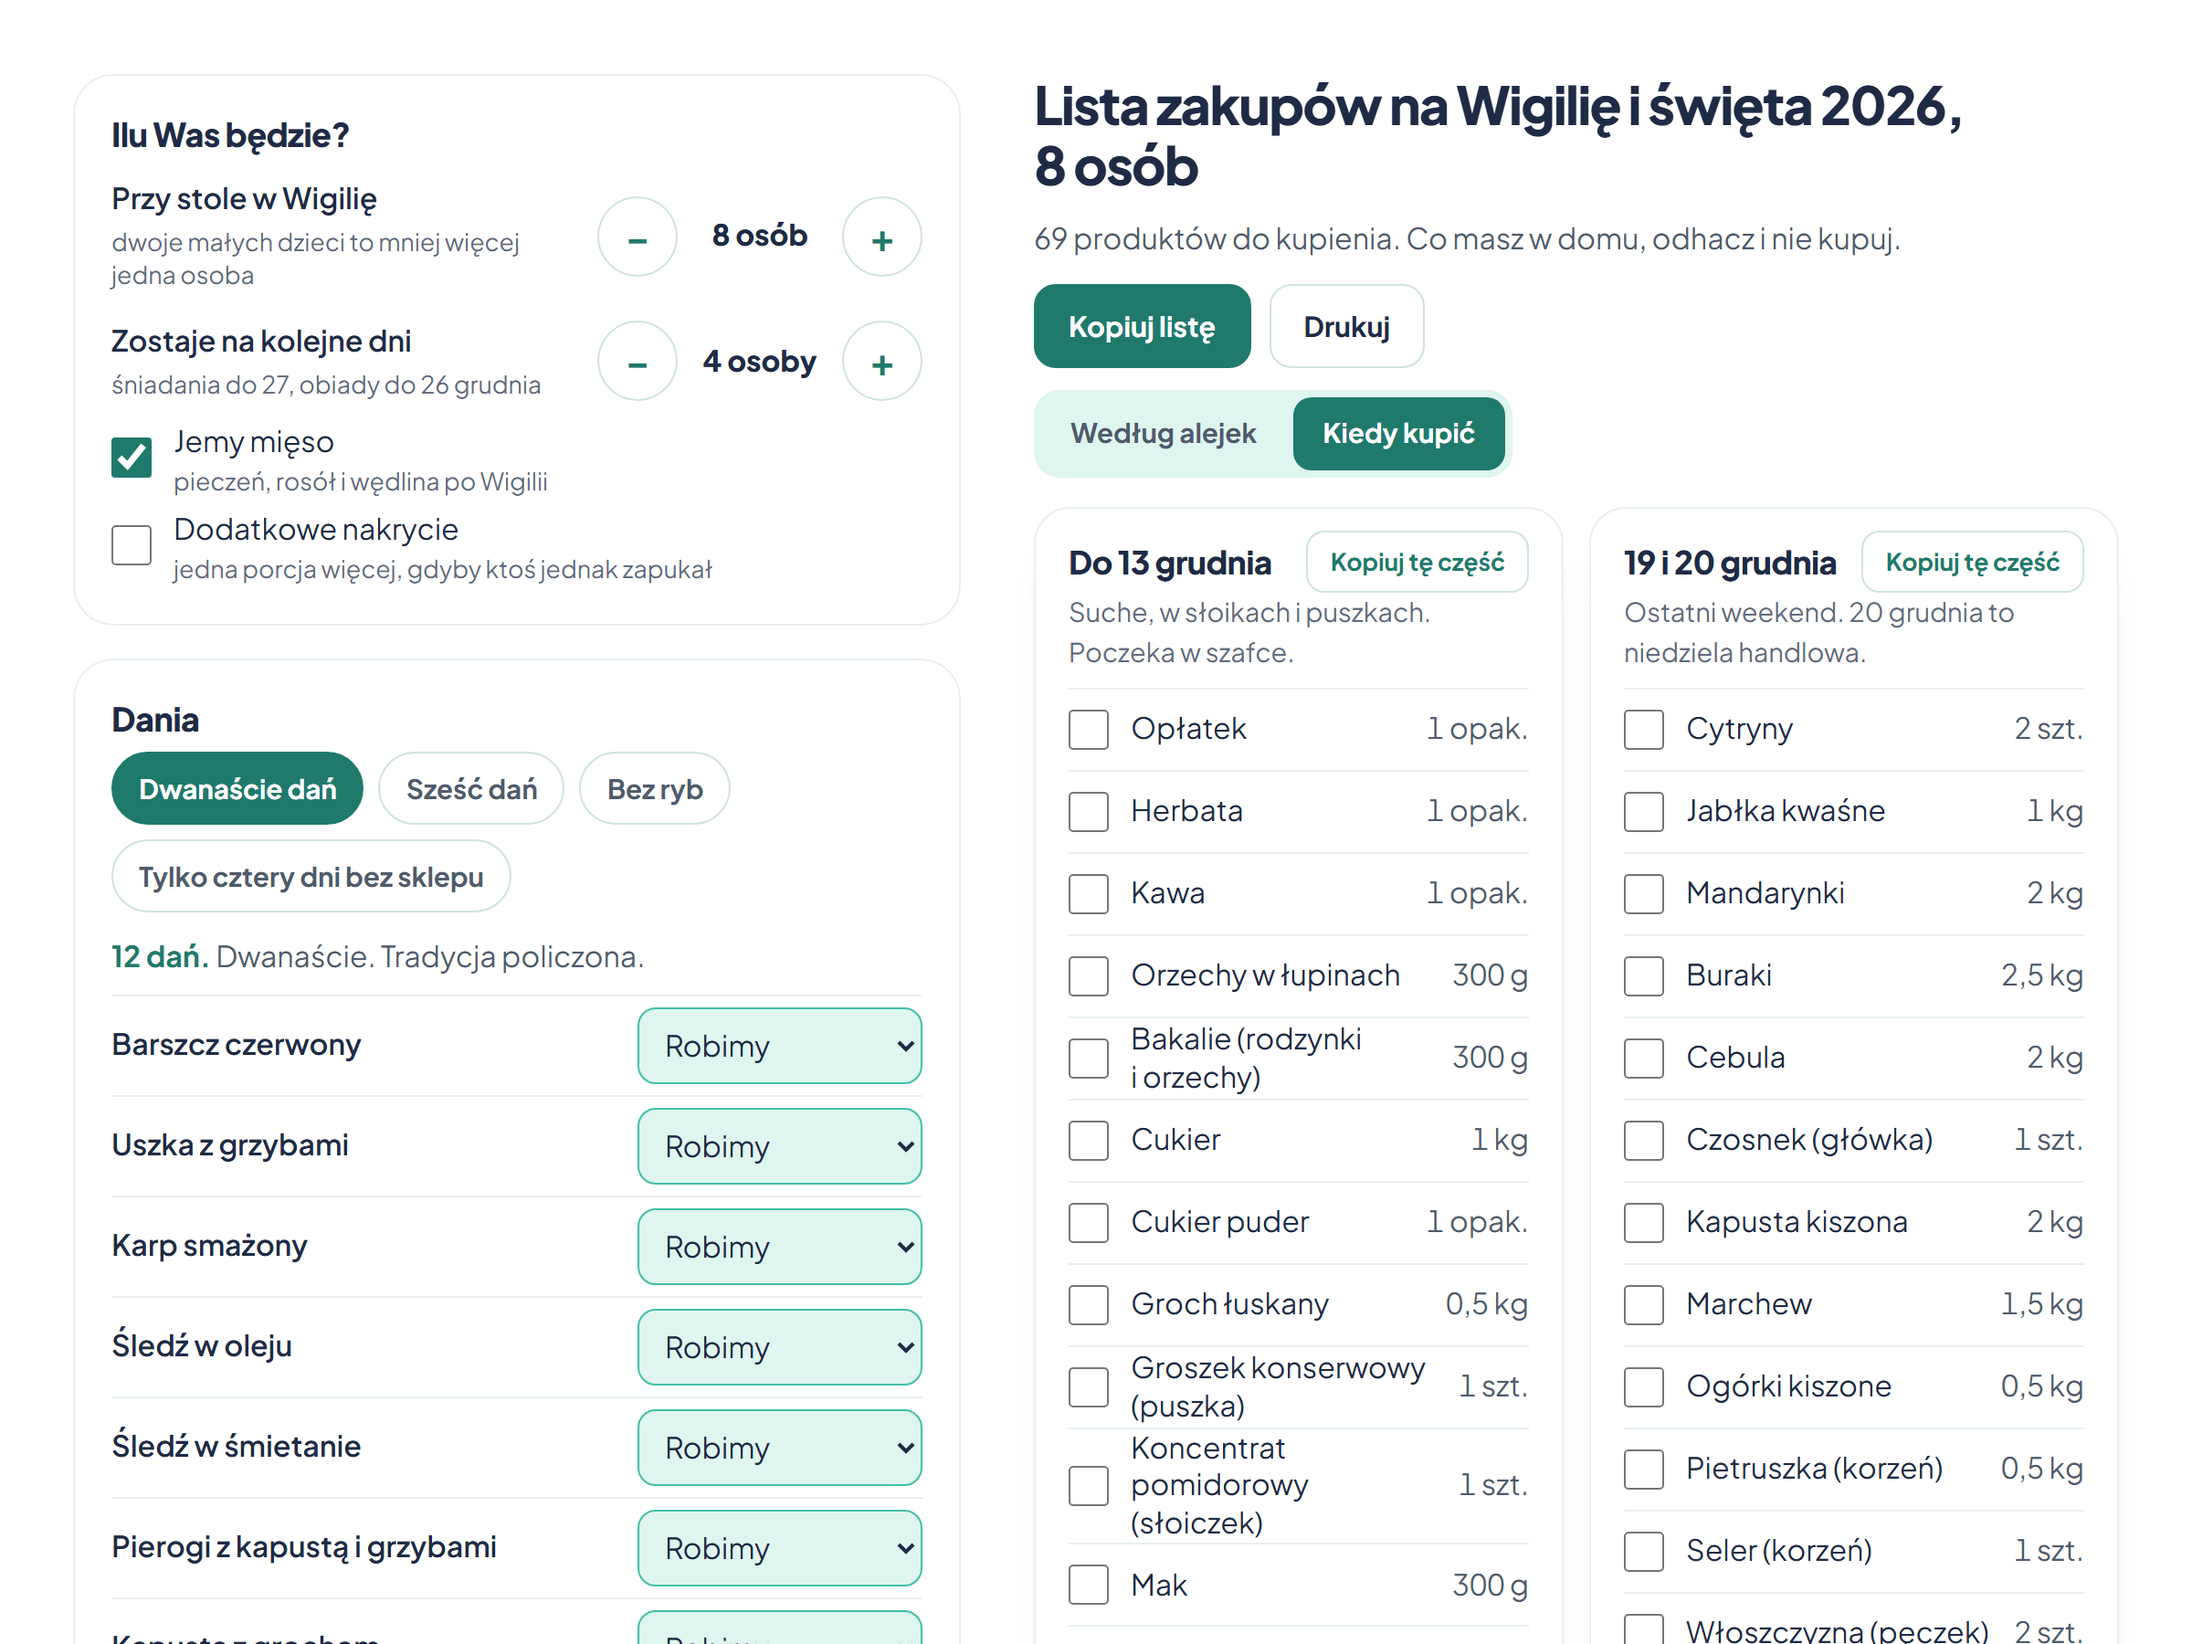
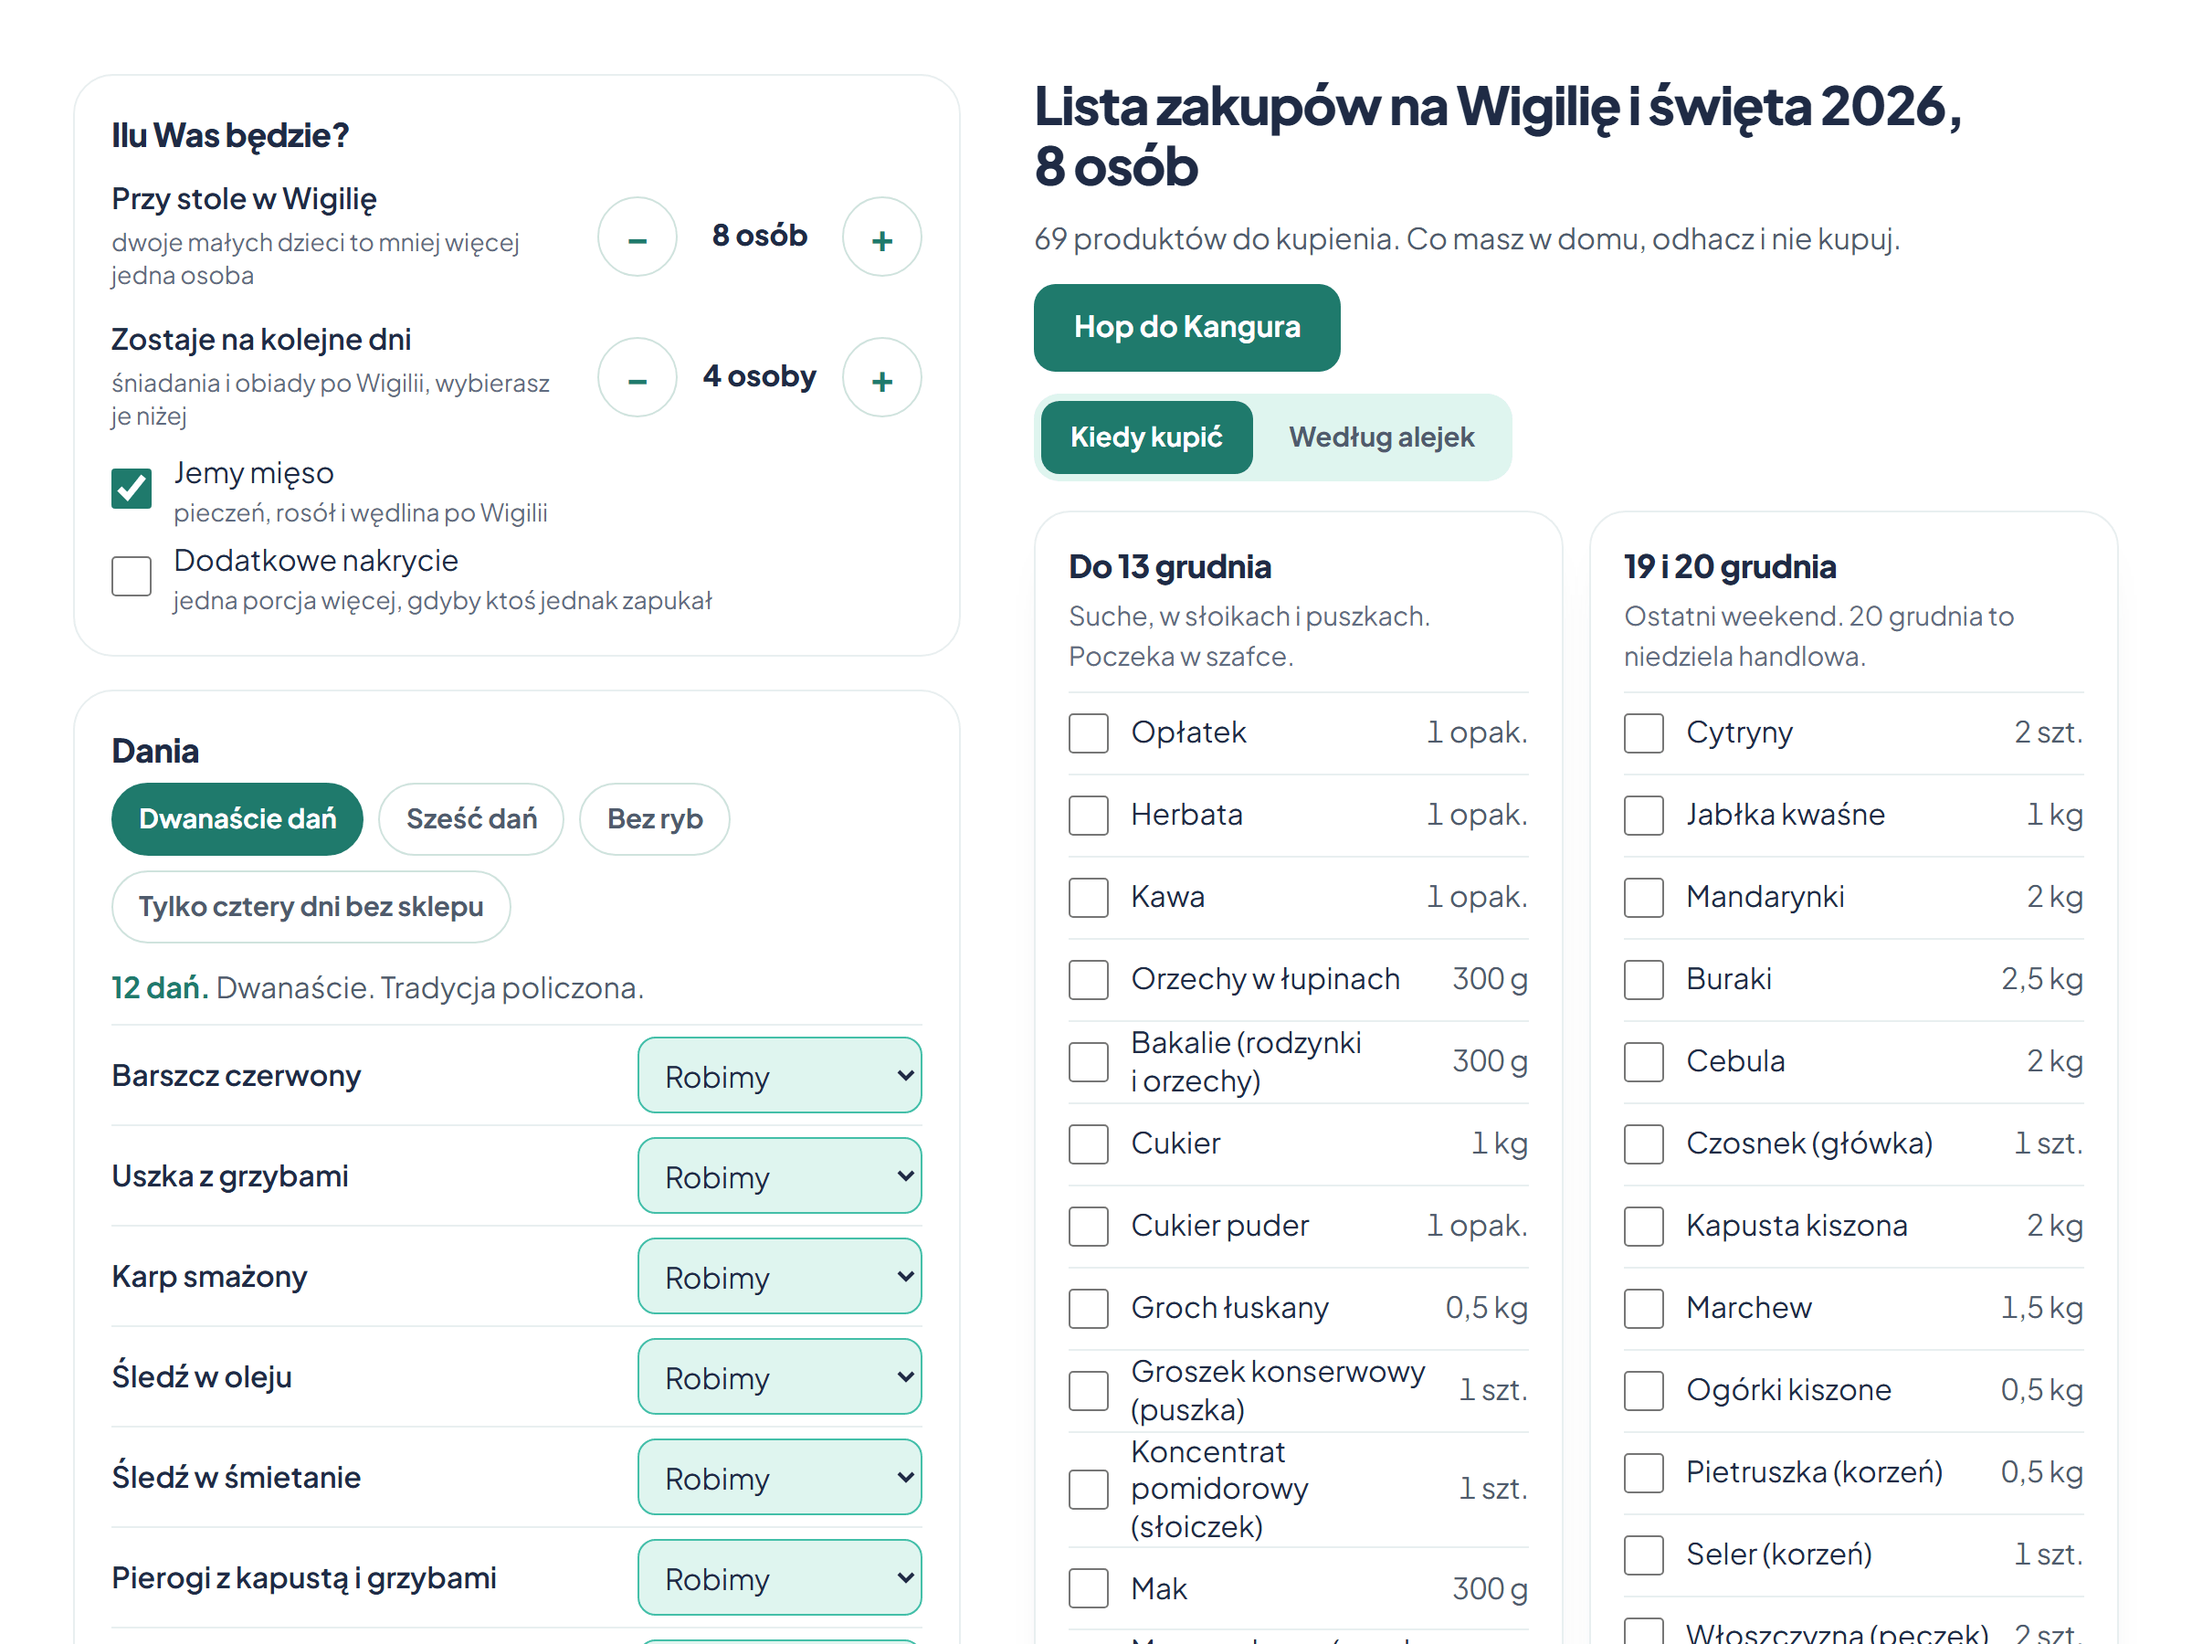
wip: the way from a computer to Kangur

diff --git a/backend/components/tools/ToKangur.tsx b/backend/components/tools/ToKangur.tsx
@@ -76,7 +76,7 @@ export function ToKangur({
   /** First line of the heading: "Oto Wasze dania." */
   line: string;
   chips: readonly string[];
-  summary: string;
+  summary: readonly string[];
   trips: readonly KangurPart[];
   /** Everything in one list, for those who do not want several. */
   whole?: KangurPart;
@@ -110,8 +110,8 @@ export function ToKangur({
       <div className={styles.head}>
         {slots.kangur}
         <div>
-          <div className={styles.arrived}>
-            <p role="status">{arrived ? HANDOFF.arrived : null}</p>
+          <div className={arrived ? styles.arrived : undefined}>
+            <p role="status">{arrived ? HANDOFF.arrived : null}</p>{" "}
             {arrived && onBack ? (
               <button type="button" className={styles.quiet} onClick={onBack}>
                 {HANDOFF.back}
@@ -126,7 +126,11 @@ export function ToKangur({
               ))}
             </ul>
           ) : null}
-          <p className={styles.summary}>{summary}</p>
+          {summary.map((sentence) => (
+            <p key={sentence} className={styles.summary}>
+              {sentence}
+            </p>
+          ))}
         </div>
       </div>
 
@@ -242,10 +246,10 @@ function CopyParts({
                 <button
                   type="button"
                   className={part === next ? `${styles.button} ${styles.primary}` : styles.button}
+                  aria-label={`${isCopied(part) ? HANDOFF.copy.done : HANDOFF.copy.part}: ${part.label}`}
                   onClick={() => void take(part)}
                 >
                   {isCopied(part) ? HANDOFF.copy.done : HANDOFF.copy.part}
-                  <span className="visually-hidden">: {part.label}</span>
                 </button>
               </li>
             ))}

diff --git a/backend/components/tools/ChristmasCalculator.tsx b/backend/components/tools/ChristmasCalculator.tsx
@@ -45,7 +45,7 @@ import { packTicks, unpackTicks } from "@/lib/marketing/lists/handoff";
 import { strings } from "@/lib/marketing/lists/stored";
 import { useArrival } from "@/lib/marketing/lists/use-arrival";
 import { hasStored, readStored, useHydrated, useStored } from "@/lib/marketing/lists/use-stored";
-import { typesetPl } from "@/lib/marketing/typography";
+import { typesetCopy } from "@/lib/marketing/typography";
 
 import styles from "./Calculator.module.css";
 
@@ -383,14 +383,10 @@ export function ChristmasCalculator({ slots }: { slots: KangurSlots }) {
         <ToKangur
           line={count === 0 ? "Oto cztery dni bez sklepu." : plan.people === 1 ? "Oto Twoje dania." : "Oto Wasze dania."}
           chips={ours}
-          summary={typesetPl(
-            [
-              bring.length > 0 ? `Przynoszą: ${bring.join(", ")}.` : "",
-              `Do kupienia: ${plural(toBuy.length, "produkt", "produkty", "produktów")} na ${plural(guests, "osobę", "osoby", "osób")}.`,
-            ]
-              .filter(Boolean)
-              .join(" "),
-          )}
+          summary={typesetCopy([
+            ...(bring.length > 0 ? [`Przynoszą: ${bring.join(", ")}.`] : []),
+            `Do kupienia: ${plural(toBuy.length, "produkt", "produkty", "produktów")} na ${plural(guests, "osobę", "osoby", "osób")}.`,
+          ])}
           trips={trips}
           whole={whole}
           intro={HANDOFF.copy.trips[trips.length]}

diff --git a/backend/components/tools/WeekCalculator.tsx b/backend/components/tools/WeekCalculator.tsx
@@ -106,6 +106,13 @@ export function WeekCalculator({ slots }: { slots: KangurSlots }) {
     groups.map((group) => ({ title: group.title, lines: group.lines.filter((line) => going.has(line.id)) })),
   );
   const ofTrip = (trip: Trip) => toBuy.filter((line) => line.when === trip).length;
+  const cooked =
+    plan.dinners === 0
+      ? "bez obiadów w domu"
+      : `z czego wyjdzie ${plural(plan.dinners, "obiad", "obiady", "obiadów")}`;
+  const summary = typesetPl(
+    `Do kupienia: ${plural(toBuy.length, "produkt", "produkty", "produktów")} na ${plural(plan.people, "osobę", "osoby", "osób")}, ${cooked}.`,
+  );
 
   return (
     <>
@@ -211,13 +218,7 @@ export function WeekCalculator({ slots }: { slots: KangurSlots }) {
         chips={TRIPS.map(({ id, short }) => [short, ofTrip(id)] as const)
           .filter(([, count]) => count > 0)
           .map(([short, count]) => `${short}: ${count}`)}
-        summary={typesetPl(
-          `Do kupienia: ${plural(toBuy.length, "produkt", "produkty", "produktów")} na ${plural(plan.people, "osobę", "osoby", "osób")}, ${
-            plan.dinners === 0
-              ? "bez obiadów w domu"
-              : `z czego wyjdzie ${plural(plan.dinners, "obiad", "obiady", "obiadów")}`
-          }.`,
-        )}
+        summary={[summary]}
         trips={trips}
         intro={HANDOFF.copy.trips[trips.length]}
         ticked={left > 0 && left < lines.length}

diff --git a/backend/components/tools/ToKangur.module.css b/backend/components/tools/ToKangur.module.css
@@ -7,6 +7,8 @@
   padding: 26px var(--pad) 26px;
   border-radius: 30px;
   background: linear-gradient(165deg, #eaf8f3, #cdecdf);
+  /* A dish somebody typed in may be one long word. */
+  overflow-wrap: anywhere;
   scroll-margin-top: 62px;
 }
 
@@ -29,31 +31,29 @@
 }
 
 .arrived {
-  display: flex;
-  flex-wrap: wrap;
-  align-items: center;
-  gap: 4px 14px;
+  margin-bottom: 12px;
+  padding-right: 92px;
+  line-height: 1.4;
 }
 
-.arrived p {
-  margin: 0 0 8px;
+.head [role="status"] {
+  display: inline;
   color: var(--kangur-primary-deep);
   font-weight: 700;
 }
 
-.arrived p:empty {
-  display: none;
-}
-
+/* A line of text, but as easy to hit as a button. */
 .arrived button {
-  margin: 0 0 8px;
+  min-height: 0;
+  margin: -10px 0;
+  padding: 10px 0;
 }
 
 .chips {
   display: flex;
   flex-wrap: wrap;
   gap: 6px;
-  margin: 18px 0 0;
+  margin: 18px 0 14px;
   padding: 0;
   list-style: none;
 }
@@ -70,7 +70,7 @@
 
 .summary {
   max-width: 40rem;
-  margin: 14px 0 0;
+  margin: 6px 0 0;
   color: var(--kangur-text);
   font-weight: 600;
 }

diff --git a/backend/lib/marketing/og.generated.ts b/backend/lib/marketing/og.generated.ts
@@ -7,12 +7,9 @@ export const OG_IMAGES: Readonly<Record<string, string>> = {
   "about/pl": "/og/about-pl.1fe385af.jpg",
   "aiList/pl": "/og/aiList-pl.87f7d6ad.jpg",
   "aisleTool/pl": "/og/aisleTool-pl.84348bdd.jpg",
+  "christmasTool/pl": "/og/christmasTool-pl.911ad82c.jpg",
   "faq/en": "/og/faq-en.4d80209c.jpg",
   "faq/pl": "/og/faq-pl.aeedbf84.jpg",
-  "guideChristmas/pl": "/og/guideChristmas-pl.911ad82c.jpg",
-  "guidePrint/pl": "/og/guidePrint-pl.92fac013.jpg",
-  "guides/pl": "/og/guides-pl.5abf088b.jpg",
-  "guideWeek/pl": "/og/guideWeek-pl.7dbf75c4.jpg",
   "home/be": "/og/home-be.e96f74f4.jpg",
   "home/cs": "/og/home-cs.7362cbba.jpg",
   "home/de": "/og/home-de.bd7f30e4.jpg",
@@ -31,4 +28,6 @@ export const OG_IMAGES: Readonly<Record<string, string>> = {
   "safety/en": "/og/safety-en.7d2fe94f.jpg",
   "safety/pl": "/og/safety-pl.21779bdb.jpg",
   "sharedList/pl": "/og/sharedList-pl.64ae1f3c.jpg",
+  "tools/pl": "/og/tools-pl.e5ad57ba.jpg",
+  "weekTool/pl": "/og/weekTool-pl.7dbf75c4.jpg",
 };

diff --git a/backend/lib/marketing/lists/handoff.ts b/backend/lib/marketing/lists/handoff.ts
@@ -9,9 +9,14 @@ const MARK = "#k=";
 /** Far more than fits a code. Somebody has to have written it by hand. */
 const LONGEST = 6000;
 
+const isEmpty = (value: unknown) =>
+  typeof value === "object" && value !== null && Object.keys(value).length === 0;
+
+/** Empty parts stay behind: the shorter the code, the easier it is to scan. */
 export function packList(list: Record<string, unknown>): string {
+  const parts = Object.fromEntries(Object.entries(list).filter(([, value]) => !isEmpty(value)));
   let binary = "";
-  for (const byte of new TextEncoder().encode(JSON.stringify(list))) binary += String.fromCharCode(byte);
+  for (const byte of new TextEncoder().encode(JSON.stringify(parts))) binary += String.fromCharCode(byte);
   return MARK + btoa(binary).replace(/\+/g, "-").replace(/\//g, "_").replace(/=+$/, "");
 }
 

diff --git a/backend/lib/marketing/content/topics/christmas-tool.ts b/backend/lib/marketing/content/topics/christmas-tool.ts
@@ -146,7 +146,7 @@ const copy: TopicCopy = {
         },
         {
           q: "Jak przenieść tę listę do Kangura?",
-          a: "Skopiuj ją i na ekranie Start w Kangurze stuknij „Schowek”. Przy komputerze zeskanuj kod, ta sama lista otworzy się w telefonie. Wczytanie to jedno z dziesięciu darmowych użyć AI.",
+          a: "Pod kalkulatorem czekają trzy listy, na trzy wyjścia do sklepu, albo jedna ze wszystkim. Skopiuj i na ekranie Start w Kangurze stuknij „Schowek”. Przy komputerze zeskanuj kod, ta sama lista otworzy się w telefonie. Każde wczytanie to jedno z dziesięciu darmowych użyć AI.",
         },
         {
           q: "Czy lista się zapisuje?",

diff --git a/backend/components/tools/AisleTool.tsx b/backend/components/tools/AisleTool.tsx
@@ -423,7 +423,7 @@ export function AisleTool({
         <ToKangur
           line="Oto Twoje alejki."
           chips={groupsToBuy.map(({ aisle, lines }) => `${AISLE_ICONS[aisle]} ${AISLE_LABELS[aisle]} ${lines.length}`)}
-          summary={typesetPl(`Do kupienia: ${plural(toBuy.length, "produkt", "produkty", "produktów")}.`)}
+          summary={[typesetPl(`Do kupienia: ${plural(toBuy.length, "produkt", "produkty", "produktów")}.`)]}
           trips={trips}
           intro={HANDOFF.copy.parts}
           ticked={ticked > 0 && left > 0}

diff --git a/backend/lib/marketing/lists/handoff.test.ts b/backend/lib/marketing/lists/handoff.test.ts
@@ -87,6 +87,7 @@ test("a list survives the way from a computer to a phone", () => {
   assert.match(hash, /^#k=[\w-]+$/);
   assert.deepEqual(unpackList(hash), list);
   assert.equal(packList({}), "#k=e30");
+  assert.equal(packList({ p: {}, d: [] }), "#k=e30");
   assert.deepEqual(unpackList("#k=e30"), {});
 });
 

diff --git a/backend/components/pages/topics/ToolsPage.module.css b/backend/components/pages/topics/ToolsPage.module.css
@@ -160,6 +160,10 @@
   .after h2 {
     align-self: end;
   }
+
+  .after p:last-child {
+    margin-top: 10px;
+  }
 }
 
 @media (min-width: 760px) and (max-width: 939px) {
